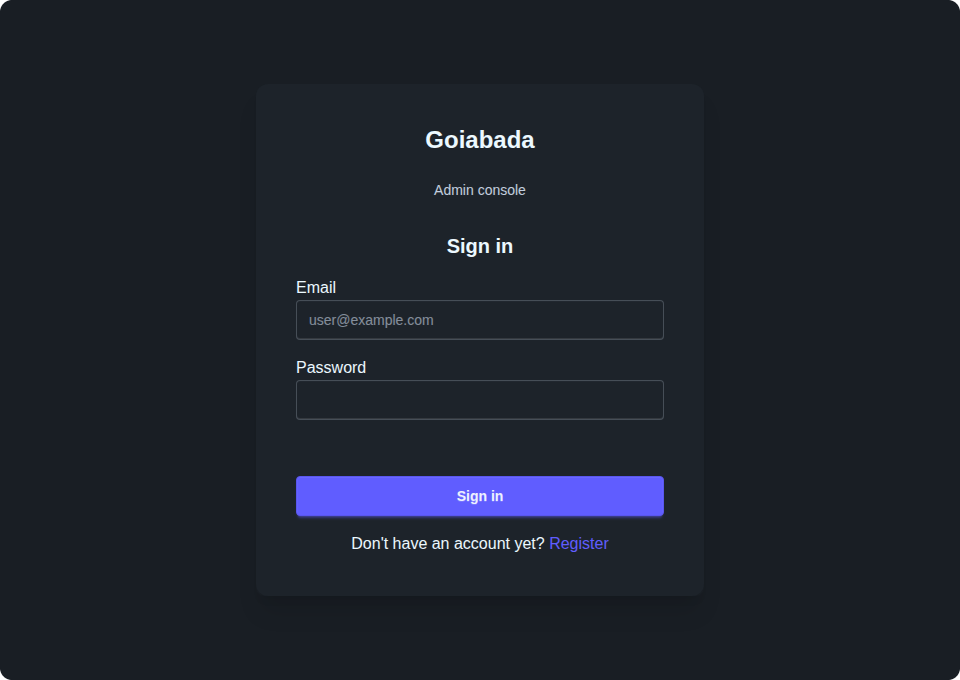
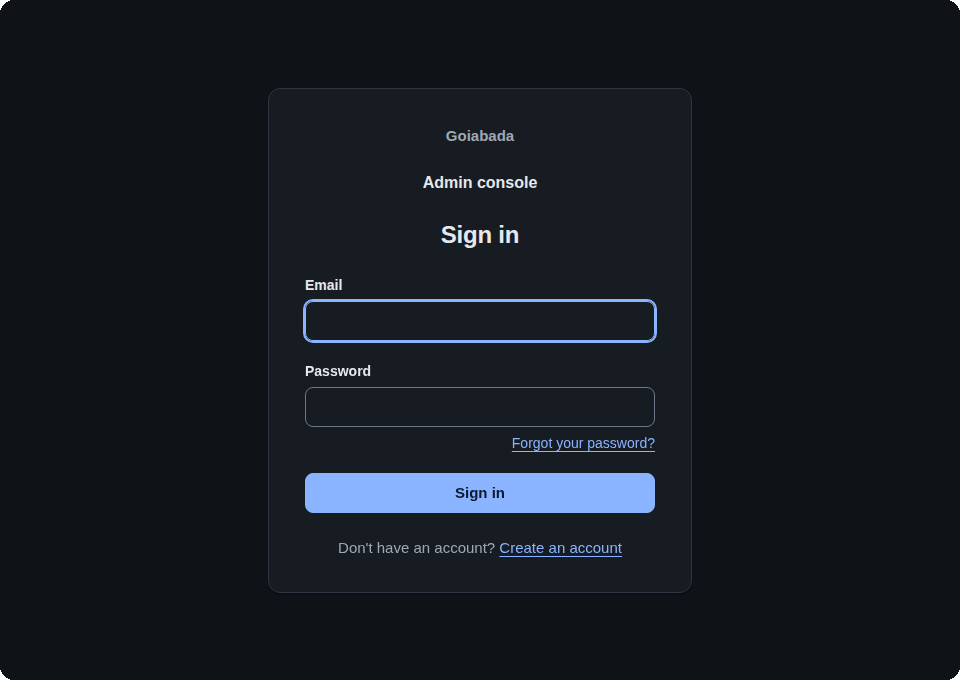
Apply the stage 7 tour (#617)
- General's caution that nobody can register while email isn't set up sits under the email
  verification switch it is about; Dynamic client registration, a client's registration rather
  than a user's, follows it in a list of its own.
- A group's and an attribute's two switches each say what they decide: the access token, or the
  ID token and /userinfo, which the ID token's switch also governs. The group form's one shared
  hint, adminconsole.admin_groups.common.include_hint, becomes include_access_hint and
  include_id_hint.
- The docs' landing page shows the revamped sign-in page, account page and users list, dark as
  before, each drawn whole.

diff --git a/src/adminconsole/web/template/admin_settings_general.html b/src/adminconsole/web/template/admin_settings_general.html
@@ -107,6 +107,12 @@
           <span class="field-hint" id="emailVerificationHint">{{ T $.ctx "adminconsole.admin_settings.general.self_registration_email_verification_tooltip" }}</span>
         </span>
       </label>
+    </div>
+    <div class="notice notice-caution" id="selfRegistrationEmailWarning"{{ if not (and .settings.SelfRegistrationEnabled .settings.SelfRegistrationRequiresEmailVerification (not .smtpEnabled)) }} hidden{{ end }}>
+      <svg xmlns="http://www.w3.org/2000/svg" viewBox="0 0 20 20" fill="currentColor" aria-hidden="true"><path fill-rule="evenodd" d="M8.485 2.495c.673-1.167 2.357-1.167 3.03 0l6.28 10.875c.673 1.167-.17 2.625-1.516 2.625H3.72c-1.347 0-2.189-1.458-1.515-2.625L8.485 2.495ZM10 5a.75.75 0 0 1 .75.75v3.5a.75.75 0 0 1-1.5 0v-3.5A.75.75 0 0 1 10 5Zm0 9a1 1 0 1 0 0-2 1 1 0 0 0 0 2Z" clip-rule="evenodd"/></svg>
+      <p>{{ T $.ctx "adminconsole.admin_settings.general.self_registration_email_warning" }} <a class="text-link" href="/admin/settings/email">{{ T $.ctx "adminconsole.admin_settings.general.email_settings_link" }}</a></p>
+    </div>
+    <div class="check-list">
       <label class="check-row" for="dynamicClientRegistrationEnabled">
         <input type="checkbox" id="dynamicClientRegistrationEnabled" name="dynamicClientRegistrationEnabled" aria-describedby="dynamicClientRegistrationHint"{{ if .settings.DynamicClientRegistrationEnabled }} checked{{ end }}>
         <span class="grid min-w-0 flex-1 gap-0.5">
@@ -114,10 +120,6 @@
           <span class="field-hint" id="dynamicClientRegistrationHint">{{ T $.ctx "adminconsole.admin_settings.general.dynamic_client_registration_tooltip" }}</span>
         </span>
       </label>
-    </div>
-    <div class="notice notice-caution" id="selfRegistrationEmailWarning"{{ if not (and .settings.SelfRegistrationEnabled .settings.SelfRegistrationRequiresEmailVerification (not .smtpEnabled)) }} hidden{{ end }}>
-      <svg xmlns="http://www.w3.org/2000/svg" viewBox="0 0 20 20" fill="currentColor" aria-hidden="true"><path fill-rule="evenodd" d="M8.485 2.495c.673-1.167 2.357-1.167 3.03 0l6.28 10.875c.673 1.167-.17 2.625-1.516 2.625H3.72c-1.347 0-2.189-1.458-1.515-2.625L8.485 2.495ZM10 5a.75.75 0 0 1 .75.75v3.5a.75.75 0 0 1-1.5 0v-3.5A.75.75 0 0 1 10 5Zm0 9a1 1 0 1 0 0-2 1 1 0 0 0 0 2Z" clip-rule="evenodd"/></svg>
-      <p>{{ T $.ctx "adminconsole.admin_settings.general.self_registration_email_warning" }} <a class="text-link" href="/admin/settings/email">{{ T $.ctx "adminconsole.admin_settings.general.email_settings_link" }}</a></p>
     </div>
   </div>
 

diff --git a/src/adminconsole/web/template/admin_groups_new.html b/src/adminconsole/web/template/admin_groups_new.html
@@ -44,14 +44,14 @@
           <input type="checkbox" id="includeInAccessToken" name="includeInAccessToken" aria-describedby="includeInAccessTokenHint"{{ if .includeInAccessToken }} checked{{ end }}>
           <span class="grid min-w-0 flex-1 gap-0.5">
             <span class="choice-label">{{ T $.ctx "adminconsole.admin_groups.common.include_access" }}</span>
-            <span class="field-hint" id="includeInAccessTokenHint">{{ T $.ctx "adminconsole.admin_groups.common.include_hint" }}</span>
+            <span class="field-hint" id="includeInAccessTokenHint">{{ T $.ctx "adminconsole.admin_groups.common.include_access_hint" }}</span>
           </span>
         </label>
         <label class="check-row" for="includeInIdToken">
           <input type="checkbox" id="includeInIdToken" name="includeInIdToken" aria-describedby="includeInIdTokenHint"{{ if .includeInIdToken }} checked{{ end }}>
           <span class="grid min-w-0 flex-1 gap-0.5">
             <span class="choice-label">{{ T $.ctx "adminconsole.admin_groups.common.include_id" }}</span>
-            <span class="field-hint" id="includeInIdTokenHint">{{ T $.ctx "adminconsole.admin_groups.common.include_hint" }}</span>
+            <span class="field-hint" id="includeInIdTokenHint">{{ T $.ctx "adminconsole.admin_groups.common.include_id_hint" }}</span>
           </span>
         </label>
       </div>

diff --git a/src/adminconsole/web/template/admin_groups_settings.html b/src/adminconsole/web/template/admin_groups_settings.html
@@ -45,14 +45,14 @@
           <input type="checkbox" id="includeInAccessToken" name="includeInAccessToken" aria-describedby="includeInAccessTokenHint"{{ if .includeInAccessToken }} checked{{ end }}>
           <span class="grid min-w-0 flex-1 gap-0.5">
             <span class="choice-label">{{ T $.ctx "adminconsole.admin_groups.common.include_access" }}</span>
-            <span class="field-hint" id="includeInAccessTokenHint">{{ T $.ctx "adminconsole.admin_groups.common.include_hint" }}</span>
+            <span class="field-hint" id="includeInAccessTokenHint">{{ T $.ctx "adminconsole.admin_groups.common.include_access_hint" }}</span>
           </span>
         </label>
         <label class="check-row" for="includeInIdToken">
           <input type="checkbox" id="includeInIdToken" name="includeInIdToken" aria-describedby="includeInIdTokenHint"{{ if .includeInIdToken }} checked{{ end }}>
           <span class="grid min-w-0 flex-1 gap-0.5">
             <span class="choice-label">{{ T $.ctx "adminconsole.admin_groups.common.include_id" }}</span>
-            <span class="field-hint" id="includeInIdTokenHint">{{ T $.ctx "adminconsole.admin_groups.common.include_hint" }}</span>
+            <span class="field-hint" id="includeInIdTokenHint">{{ T $.ctx "adminconsole.admin_groups.common.include_id_hint" }}</span>
           </span>
         </label>
       </div>
